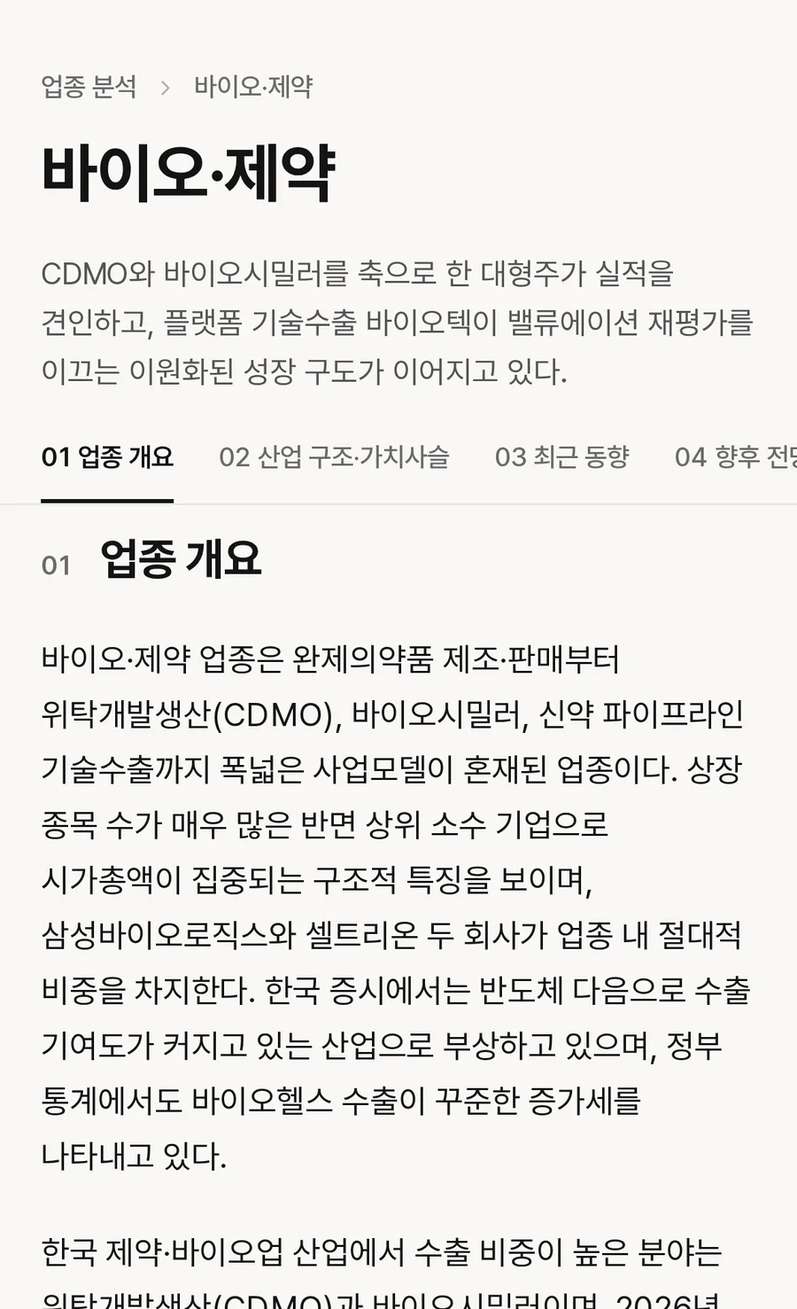
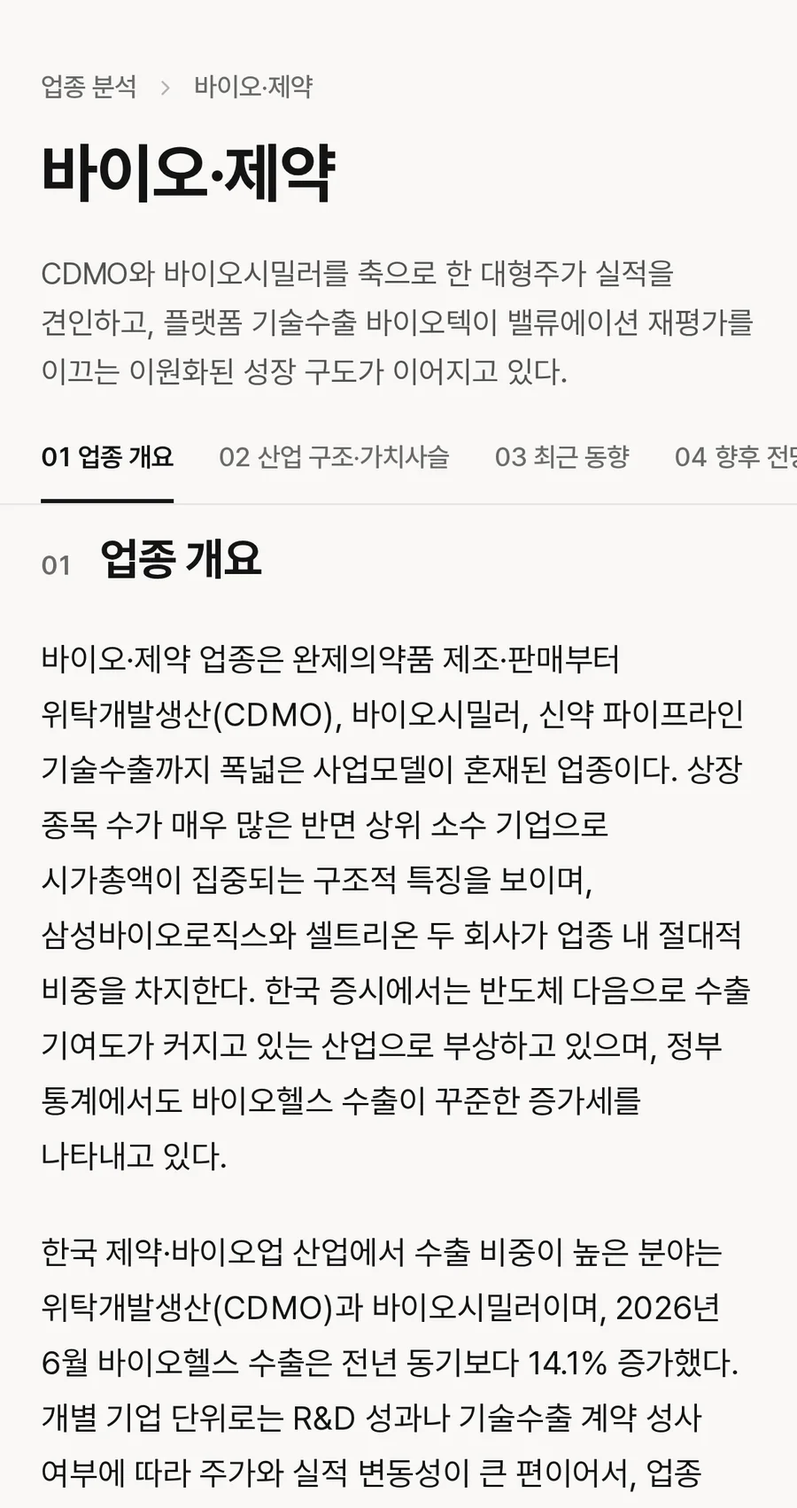
랜딩 휴대폰 그림 — 글줄이 잘린 채 끝나지 않게
휴대폰 폭에서 업종 절 왼쪽 그림이 글줄 한가운데서 끝나고, 그 아래 틀이
비어 있었다. 오른쪽 화면이 폭의 12%만큼 내려서고 두 틀의 아래 끝이 같아
왼쪽 틀이 그만큼 늘어나는데, 두 화면을 같은 길이로 찍어서다.

- 왼쪽 휴대폰 화면을 오른쪽보다 화면 폭의 25% 길게 찍어 틀을 꼭 채운다
  (900×1702, 리포트 절 · 업종 절 모두)
- 모든 그림이 글줄 사이에서 끝나게 한다 — 아래 끝에 걸치거나 6px 안으로
  붙은 줄은 빼고 바탕색으로 덮는다(landing_art.py 의 LAST_LINE)
- 휴대폰 화면은 다음 절 제목도 자르지 않고 덮어 틀 크기를 지킨다
- 그림 크기가 SHOT 과 다르면 랜딩 빌드가 멈춘다(webp_size)

Claude-Session: https://claude.ai/code/session_01V9w7AkGYKinAos3GPMJT9m

Changed region(s): [[0.0311, 0.0311, 1.0, 1.0], [0.84, 0.3426, 1.0, 0.3737], [0.6222, 0.3426, 0.7778, 0.3737]]

diff --git a/preview/concepts/landing/index.html b/preview/concepts/landing/index.html
@@ -1,4 +1,4 @@
-<!doctype html><html lang="ko"><head><meta charset="utf-8"><meta name="viewport" content="width=device-width,initial-scale=1,viewport-fit=cover"><meta name="robots" content="noindex,nofollow"><meta name="theme-color" content="#141414"><title>KOSAI — 국내 상장 2,682개 종목의 기업 분석 리포트</title><meta name="description" content="국내 상장 2,682개 종목의 기업 분석 리포트와 모닝브리핑, 업종 분석을 제공합니다."><meta property="og:title" content="KOSAI — 증권사가 다루지 않는 종목까지"><meta property="og:description" content="국내 상장 2,682개 종목의 기업 분석 리포트"><link rel="stylesheet" href="../../../fonts/pretendard-subset.css"><link rel="stylesheet" href="landing.css"><script>(function(){var t='light';try{t=localStorage.getItem('kos-theme')||'light'}catch(e){}var r=document.documentElement;r.setAttribute('data-theme',t);r.classList.add('band-top');if('IntersectionObserver' in window&&!matchMedia('(prefers-reduced-motion: reduce)').matches)r.classList.add('rv-on');document.querySelector('meta[name="theme-color"]').setAttribute('content',t==='dark'?'#1c1c1e':'#141414')})();</script></head><body><div id="kosEdgeTop" aria-hidden="true"></div><div id="kosEdgeBot" aria-hidden="true"></div><nav class="nav on-band" id="nav"><div class="nav-in"><a class="brand" href="#"><img class="lt" src="../../../assets/kosai-wordmark-black.png" alt="KOSAI"><img class="dk" src="../../../assets/kosai-wordmark-white.png" alt="KOSAI"></a><div class="links"><a href="#">홈</a><a href="#report">리포트</a><a href="#sectors">업종 분석</a><a href="#">관심종목</a><a href="#brief">모닝브리핑</a></div><div class="right"><a class="login" href="#">로그인</a><button class="ib" id="themeBtn" aria-label="테마 전환"><svg viewBox="0 0 24 24" id="themeIcon"><path d="M21 12.8A9 9 0 1 1 11.2 3a7 7 0 0 0 9.8 9.8z"/></svg></button><button class="ib menu" id="menuBtn" aria-label="메뉴" aria-expanded="false" aria-controls="mmenu"><svg class="ham" viewBox="0 0 24 24"><path d="M4 7h16M4 12h16M4 17h16"/></svg><svg class="x" viewBox="0 0 24 24"><path d="M6 6l12 12M18 6L6 18"/></svg></button></div></div></nav><div class="mmenu" id="mmenu"><div class="mm-links"><a href="#">홈</a><a href="#report">리포트</a><a href="#sectors">업종 분석</a><a href="#">관심종목</a><a href="#brief">모닝브리핑</a></div><div class="sep"></div><div class="mm-auth"><a href="#">로그인</a><a href="#">회원가입</a></div><div class="mm-foot"><a href="#">회사 소개</a><a href="#">문의하기</a><a href="#">피드백</a><a href="#">이용약관</a><a href="#">개인정보 처리방침</a></div></div><main><header class="hero dz" id="hero"><div class="hero-in w"><h1>증권사가 다루지 않는<br>종목까지</h1><p class="lede"><span class="s">국내 상장 <span class="num">2,682</span>개 종목의 기업 분석 리포트를 제공합니다.</span></p><form class="search" role="search" onsubmit="return false"><svg viewBox="0 0 24 24"><circle cx="11" cy="11" r="7"/><path d="M21 21l-3.5-3.5"/></svg><input placeholder="종목명 또는 종목코드" aria-label="종목 검색" autocomplete="off"><button class="btn btn-ink" type="button">리포트 찾기</button></form><div class="alt"><a class="more" href="#">전체 리포트 보기 <svg class="i" viewBox="0 0 24 24"><path d="M5 12h14M13 6l6 6-6 6"/></svg></a></div></div><div class="orb-box" aria-hidden="true"><canvas class="orb" id="orb"></canvas></div><script type="application/json" id="orbData">{"n":2682,"r":[22,56,85,116,120,137,169,174,247,261,272,273,278,288,293,297,369,399,417,537,579,586,629,636,694,721,722,727,732,735,740,794,796,811,821,875,890,907,912,923,969,1052,1055,1072,1108,1174,1192,1220,1275,1312,1317,1346,1350,1411,1419,1442,1527,1578,1585,1628,1672,1718,1724,1736,1745,1828,1866,1874,1899,1948,1956,1974,1977,1996,2001,2007,2102,2148,2173,2187,2195,2295,2319,2328,2331,2369,2404,2409,2421,2441,2534,2563,2565,2570,2577,2601,2616,2622]}</script></header><section class="sec w solo stat" id="gap"><h2 class="stat-h rv"><span class="h2">증권사 리포트가 없는<br class="m"> 국내 상장사</span> <span class="cnt stat-n">58.8%</span></h2><p class="sub rv"><span class="s">지난해 증권사 기업분석 보고서가 발간되지 않은 기업은 1,573개사입니다.</span> <span class="s">KOSAI는 해당 기업에 대해서도 분석 리포트를 제공합니다.</span></p><p class="src rv">자료: 한국IR협의회 기업리서치센터, 2025년 상장사 2,674개사 집계</p></section><section class="sec w" id="report"><div class="split"><div class="tx"><p class="eyebrow rv">리포트</p><h2 class="h2 rv">한 편에 담은<br>기업 분석</h2><p class="sub rv"><span class="s">사업 구조와 실적, 업황, 전망, 리스크를 차례로 정리합니다.</span> <span class="s">강세 요인과 약세 요인을 함께 제시해 어느 한쪽으로 치우치지 않습니다.</span></p></div><figure class="shot" role="img" aria-label="KOSAI 기업 분석 리포트의 실제 화면. 목차와 리포트 개요, 사업 구조, 실적 추이가 차례로 보입니다."><div class="scr desk"><img class="lt" src="img/report-desk-light.webp" width="1840" height="1413" alt="" loading="lazy" decoding="async"><img class="dk" src="img/report-desk-dark.webp" width="1840" height="1413" alt="" loading="lazy" decoding="async"></div><div class="scr m1"><img class="lt" src="img/report-m1-light.webp" width="900" height="1477" alt="" loading="lazy" decoding="async"><img class="dk" src="img/report-m1-dark.webp" width="900" height="1477" alt="" loading="lazy" decoding="async"></div><div class="scr m2"><img class="lt" src="img/report-m2-light.webp" width="900" height="1477" alt="" loading="lazy" decoding="async"><img class="dk" src="img/report-m2-dark.webp" width="900" height="1477" alt="" loading="lazy" decoding="async"></div></figure></div></section><section class="sec w solo"><h2 class="h2 rv">매수도 매도도<br>권하지 않습니다</h2><p class="sub rv"><span class="s">KOSAI는 자체 투자의견과 목표주가를 제시하지 않습니다.</span> <span class="s">투자 판단에 필요한 사실과 근거를 정리하는 데 집중합니다.</span></p></section><section class="sec w trust"><h2 class="h2 rv">리포트의<br>세 가지 원칙</h2><ul class="proof"><li class="rv"><h3>공시 원본 수치</h3><p><span class="s">실적 표와 차트의 수치는 금융감독원 전자공시(DART) 원본에서 가져오며, AI가 생성하지 않습니다.</span></p></li><li class="rv"><h3>출처 공개</h3><p><span class="s">분석의 근거가 된 자료를 리포트마다 출처로 공개합니다.</span> <span class="s">한 편당 평균 17.5건입니다.</span></p></li><li class="rv"><h3>발행 전 검수</h3><p><span class="s">투자 권유로 읽힐 수 있는 표현은 발행 전에 자동으로 검수해 수정합니다.</span></p></li></ul><a class="more rv" href="#">작성 방식 자세히 보기 <svg class="i" viewBox="0 0 24 24"><path d="M5 12h14M13 6l6 6-6 6"/></svg></a></section><section class="sec w" id="fresh"><div class="split rev"><div class="tx"><h2 class="h2 rv">공시와 함께<br>갱신되는 리포트</h2><p class="sub rv"><span class="s">분기보고서와 반기보고서, 사업보고서가 공시되면 리포트를 새로 작성합니다.</span> <span class="s">주가와 밸류에이션 지표는 거래일마다 반영합니다.</span></p></div><figure class="cyc" id="cyc" role="img" aria-label="2026년 한 해를 원으로 나타낸 그림입니다. 안쪽 선은 12월 결산 법인의 정기보고서 제출 기간입니다."><div class="cyc-box" id="cycBox"></div><figcaption class="cyc-lg"><span><i class="g-ar"></i>정기보고서 제출 기간<em>12월 결산 법인 기준</em></span></figcaption><script type="application/json" id="cycData">{"years":{"2026":{"y":2026,"n":365,"win":[["사업보고서",0,89,3,31],["1분기보고서",90,134,5,15],["반기보고서",181,225,8,14],["3분기보고서",273,319,11,16]]},"2027":{"y":2027,"n":365,"win":[["사업보고서",0,89,3,31],["1분기보고서",90,136,5,17],["반기보고서",181,228,8,17],["3분기보고서",273,318,11,15]]},"2028":{"y":2028,"n":366,"win":[["사업보고서",0,89,3,30],["1분기보고서",91,135,5,15],["반기보고서",182,226,8,14],["3분기보고서",274,318,11,14]]},"2029":{"y":2029,"n":365,"win":[["사업보고서",0,91,4,2],["1분기보고서",90,134,5,15],["반기보고서",181,225,8,14],["3분기보고서",273,317,11,14]]},"2030":{"y":2030,"n":365,"win":[["사업보고서",0,90,4,1],["1분기보고서",90,134,5,15],["반기보고서",181,225,8,14],["3분기보고서",273,317,11,14]]}},"t":{"label":"{y}년 한 해를 원으로 나타낸 그림입니다. 안쪽 선은 12월 결산 법인의 정기보고서 제출 기간입니다.","next":"{w} 제출 기한은 {m}월 {d}일입니다.","mon":"{m}월","due":"{m}월 {d}일까지","today":"오늘"}}</script></figure></div></section><section class="sec w stack" id="sectors"><p class="eyebrow rv">업종 분석</p><h2 class="h2 rv">30개 업종의<br>분석 리포트</h2><p class="sub rv"><span class="s">업종마다 산업 구조와 최근 동향, 향후 전망, 리스크 요인을 분석합니다.</span> <span class="s">개별 기업을 산업 전체의 맥락에서 살펴볼 수 있습니다.</span></p><a class="more rv" href="#">전체 업종 보기 <svg class="i" viewBox="0 0 24 24"><path d="M5 12h14M13 6l6 6-6 6"/></svg></a><figure class="shot full" role="img" aria-label="KOSAI 업종 분석의 실제 화면. 업종 요약과 목차, 업종 개요, 리스크 요인이 차례로 보입니다."><div class="scr desk"><img class="lt" src="img/sector-desk-light.webp" width="2112" height="1277" alt="" loading="lazy" decoding="async"><img class="dk" src="img/sector-desk-dark.webp" width="2112" height="1277" alt="" loading="lazy" decoding="async"></div><div class="scr m1"><img class="lt" src="img/sector-m1-light.webp" width="900" height="1477" alt="" loading="lazy" decoding="async"><img class="dk" src="img/sector-m1-dark.webp" width="900" height="1477" alt="" loading="lazy" decoding="async"></div><div class="scr m2"><img class="lt" src="img/sector-m2-light.webp" width="900" height="1477" alt="" loading="lazy" decoding="async"><img class="dk" src="img/sector-m2-dark.webp" width="900" height="1477" alt="" loading="lazy" decoding="async"></div></figure></section><section class="band dz" id="brief"><div class="w split"><div class="tx"><p class="eyebrow rv">모닝브리핑</p><h2 class="h2 rv">개장 전에 읽는<br>시장 브리핑</h2><p class="sub rv"><span class="s">전일 국내 증시와 간밤의 해외 시장, 주요 일정을 정리합니다.</span> <span class="s">발행 시각은 거래일 오전 7시 30분 전후입니다.</span></p><a class="more rv" href="#">제31호 읽기 <svg class="i" viewBox="0 0 24 24"><path d="M5 12h14M13 6l6 6-6 6"/></svg></a></div><figure class="slot" aria-label="사진 자리 — 개장 전 아침, 책상 위 휴대폰"><span class="st"><svg viewBox="0 0 24 24"><rect x="3.5" y="5" width="17" height="14" rx="2"/><path d="M3.5 16l5-5 4 4 3-3 5 5"/></svg>사진<span>1:1</span></span><figcaption>개장 전 아침, 책상 위 휴대폰</figcaption></figure></div></section><section class="end w"><h2 class="h2 rv">궁금한 종목의<br>리포트를 확인하세요</h2><div class="rv"><form class="search" role="search" onsubmit="return false"><svg viewBox="0 0 24 24"><circle cx="11" cy="11" r="7"/><path d="M21 21l-3.5-3.5"/></svg><input placeholder="종목명 또는 종목코드" aria-label="종목 검색" autocomplete="off"><button class="btn btn-ink" type="button">리포트 찾기</button></form></div></section></main><footer class="foot"><div class="w"><a class="brand" href="#"><img class="lt" src="../../../assets/kosai-wordmark-black.png" alt="KOSAI"><img class="dk" src="../../../assets/kosai-wordmark-white.png" alt="KOSAI"></a><div class="fgrid"><div class="fcol"><h4>서비스</h4><a href="#">홈</a><a href="#">리포트</a><a href="#">업종 분석</a><a href="#">관심종목</a><a href="#">모닝브리핑</a></div><div class="fcol"><h4>회사</h4><a href="#">회사 소개</a><a href="#">문의하기</a><a href="#">피드백</a></div><div class="fcol"><h4>정책</h4><a href="#">이용약관</a><a class="pp" href="#">개인정보 처리방침</a></div></div><div class="biz"><span>상호 코사이</span><span>대표 임범준</span><span>사업자등록번호 380-25-02019</span><span>주소 서울시 양천구 목동동로12길 50, 동성빌딩 4층 459호</span><span>이메일 hello@kosai.kr</span></div><div class="copy">© 2026 KOSAI</div></div></footer><script>(function(){var r=document.documentElement;if(!r.classList.contains('rv-on'))return;function bz(x){var lo=0,hi=1,t=x,u;for(var i=0;i<24;i++){t=(lo+hi)/2;u=1-t;if(3*u*u*t*.2+3*u*t*t*.2+t*t*t<x)lo=t;else hi=t}u=1-t;return 3*u*u*t*.7+3*u*t*t+t*t*t}function cnt(el,d){var s=el.textContent,m=s.match(/^(\d+)(?:\.(\d+))?(\D*)$/),tn=el.firstChild;if(!m||!tn||(document.fonts&&document.fonts.status!=='loaded'))return;var hd=el.parentNode,ip=m[1],fp=m[2]||'',to=parseFloat(ip+(fp?'.'+fp:'')),dp=fp.length,ch=s.split(''),h='',i,b,x=[],fs=parseFloat(getComputedStyle(el).fontSize),rg=document.createRange();for(i=0;i<ch.length;i++){rg.setStart(tn,i);rg.setEnd(tn,i+1);b=rg.getBoundingClientRect();x.push([b.left,b.width])}hd.setAttribute('aria-label',hd.textContent);el.setAttribute('aria-hidden','true');el.style.whiteSpace='nowrap';for(i=0;i<ch.length;i++)h+='<span>'+ch[i]+'</span>';el.innerHTML=h;var sp=el.children;for(i=0;i<sp.length;i++)sp[i].style.cssText='display:inline-block;text-align:center;width:'+((i<sp.length-1?x[i+1][0]-x[i][0]:x[i][1])/fs).toFixed(4)+'em';function show(v){var a=v.toFixed(dp).split('.'),n=ip.length,k;for(i=0;i<n;i++){k=a[0].length-n+i;sp[i].textContent=k>=0?a[0].charAt(k):''}for(i=0;i<dp;i++)sp[n+1+i].textContent=(a[1]||'').charAt(i)}show(0);var t0=null;function f(ts){if(t0===null)t0=ts+d*1000;var p=Math.max(0,Math.min(1,(ts-t0)/1000));if(p<1){show(to*bz(p));requestAnimationFrame(f)}else for(i=0;i<sp.length;i++)sp[i].textContent=ch[i]}requestAnimationFrame(f)}try{var io=new IntersectionObserver(function(es){var j=0;for(var k=0;k<es.length;k++){var e=es[k],t=e.target;if(e.isIntersecting){var d=Math.min(j++,5)*.08;t.style.setProperty('--d',d+'s');t.classList.add('in');io.unobserve(t);var c=t.querySelector('.cnt');if(c)cnt(c,d)}else if(e.boundingClientRect.top<0){t.classList.add('in');io.unobserve(t)}}},{rootMargin:'0px 0px -10% 0px'});var rv=document.querySelectorAll('.rv');for(var k=0;k<rv.length;k++)io.observe(rv[k])}catch(x){r.classList.remove('rv-on')}})();</script><script>(function(){
+<!doctype html><html lang="ko"><head><meta charset="utf-8"><meta name="viewport" content="width=device-width,initial-scale=1,viewport-fit=cover"><meta name="robots" content="noindex,nofollow"><meta name="theme-color" content="#141414"><title>KOSAI — 국내 상장 2,682개 종목의 기업 분석 리포트</title><meta name="description" content="국내 상장 2,682개 종목의 기업 분석 리포트와 모닝브리핑, 업종 분석을 제공합니다."><meta property="og:title" content="KOSAI — 증권사가 다루지 않는 종목까지"><meta property="og:description" content="국내 상장 2,682개 종목의 기업 분석 리포트"><link rel="stylesheet" href="../../../fonts/pretendard-subset.css"><link rel="stylesheet" href="landing.css"><script>(function(){var t='light';try{t=localStorage.getItem('kos-theme')||'light'}catch(e){}var r=document.documentElement;r.setAttribute('data-theme',t);r.classList.add('band-top');if('IntersectionObserver' in window&&!matchMedia('(prefers-reduced-motion: reduce)').matches)r.classList.add('rv-on');document.querySelector('meta[name="theme-color"]').setAttribute('content',t==='dark'?'#1c1c1e':'#141414')})();</script></head><body><div id="kosEdgeTop" aria-hidden="true"></div><div id="kosEdgeBot" aria-hidden="true"></div><nav class="nav on-band" id="nav"><div class="nav-in"><a class="brand" href="#"><img class="lt" src="../../../assets/kosai-wordmark-black.png" alt="KOSAI"><img class="dk" src="../../../assets/kosai-wordmark-white.png" alt="KOSAI"></a><div class="links"><a href="#">홈</a><a href="#report">리포트</a><a href="#sectors">업종 분석</a><a href="#">관심종목</a><a href="#brief">모닝브리핑</a></div><div class="right"><a class="login" href="#">로그인</a><button class="ib" id="themeBtn" aria-label="테마 전환"><svg viewBox="0 0 24 24" id="themeIcon"><path d="M21 12.8A9 9 0 1 1 11.2 3a7 7 0 0 0 9.8 9.8z"/></svg></button><button class="ib menu" id="menuBtn" aria-label="메뉴" aria-expanded="false" aria-controls="mmenu"><svg class="ham" viewBox="0 0 24 24"><path d="M4 7h16M4 12h16M4 17h16"/></svg><svg class="x" viewBox="0 0 24 24"><path d="M6 6l12 12M18 6L6 18"/></svg></button></div></div></nav><div class="mmenu" id="mmenu"><div class="mm-links"><a href="#">홈</a><a href="#report">리포트</a><a href="#sectors">업종 분석</a><a href="#">관심종목</a><a href="#brief">모닝브리핑</a></div><div class="sep"></div><div class="mm-auth"><a href="#">로그인</a><a href="#">회원가입</a></div><div class="mm-foot"><a href="#">회사 소개</a><a href="#">문의하기</a><a href="#">피드백</a><a href="#">이용약관</a><a href="#">개인정보 처리방침</a></div></div><main><header class="hero dz" id="hero"><div class="hero-in w"><h1>증권사가 다루지 않는<br>종목까지</h1><p class="lede"><span class="s">국내 상장 <span class="num">2,682</span>개 종목의 기업 분석 리포트를 제공합니다.</span></p><form class="search" role="search" onsubmit="return false"><svg viewBox="0 0 24 24"><circle cx="11" cy="11" r="7"/><path d="M21 21l-3.5-3.5"/></svg><input placeholder="종목명 또는 종목코드" aria-label="종목 검색" autocomplete="off"><button class="btn btn-ink" type="button">리포트 찾기</button></form><div class="alt"><a class="more" href="#">전체 리포트 보기 <svg class="i" viewBox="0 0 24 24"><path d="M5 12h14M13 6l6 6-6 6"/></svg></a></div></div><div class="orb-box" aria-hidden="true"><canvas class="orb" id="orb"></canvas></div><script type="application/json" id="orbData">{"n":2682,"r":[22,56,85,116,120,137,169,174,247,261,272,273,278,288,293,297,369,399,417,537,579,586,629,636,694,721,722,727,732,735,740,794,796,811,821,875,890,907,912,923,969,1052,1055,1072,1108,1174,1192,1220,1275,1312,1317,1346,1350,1411,1419,1442,1527,1578,1585,1628,1672,1718,1724,1736,1745,1828,1866,1874,1899,1948,1956,1974,1977,1996,2001,2007,2102,2148,2173,2187,2195,2295,2319,2328,2331,2369,2404,2409,2421,2441,2534,2563,2565,2570,2577,2601,2616,2622]}</script></header><section class="sec w solo stat" id="gap"><h2 class="stat-h rv"><span class="h2">증권사 리포트가 없는<br class="m"> 국내 상장사</span> <span class="cnt stat-n">58.8%</span></h2><p class="sub rv"><span class="s">지난해 증권사 기업분석 보고서가 발간되지 않은 기업은 1,573개사입니다.</span> <span class="s">KOSAI는 해당 기업에 대해서도 분석 리포트를 제공합니다.</span></p><p class="src rv">자료: 한국IR협의회 기업리서치센터, 2025년 상장사 2,674개사 집계</p></section><section class="sec w" id="report"><div class="split"><div class="tx"><p class="eyebrow rv">리포트</p><h2 class="h2 rv">한 편에 담은<br>기업 분석</h2><p class="sub rv"><span class="s">사업 구조와 실적, 업황, 전망, 리스크를 차례로 정리합니다.</span> <span class="s">강세 요인과 약세 요인을 함께 제시해 어느 한쪽으로 치우치지 않습니다.</span></p></div><figure class="shot" role="img" aria-label="KOSAI 기업 분석 리포트의 실제 화면. 목차와 리포트 개요, 사업 구조, 실적 추이가 차례로 보입니다."><div class="scr desk"><img class="lt" src="img/report-desk-light.webp" width="1840" height="1413" alt="" loading="lazy" decoding="async"><img class="dk" src="img/report-desk-dark.webp" width="1840" height="1413" alt="" loading="lazy" decoding="async"></div><div class="scr m1"><img class="lt" src="img/report-m1-light.webp" width="900" height="1702" alt="" loading="lazy" decoding="async"><img class="dk" src="img/report-m1-dark.webp" width="900" height="1702" alt="" loading="lazy" decoding="async"></div><div class="scr m2"><img class="lt" src="img/report-m2-light.webp" width="900" height="1477" alt="" loading="lazy" decoding="async"><img class="dk" src="img/report-m2-dark.webp" width="900" height="1477" alt="" loading="lazy" decoding="async"></div></figure></div></section><section class="sec w solo"><h2 class="h2 rv">매수도 매도도<br>권하지 않습니다</h2><p class="sub rv"><span class="s">KOSAI는 자체 투자의견과 목표주가를 제시하지 않습니다.</span> <span class="s">투자 판단에 필요한 사실과 근거를 정리하는 데 집중합니다.</span></p></section><section class="sec w trust"><h2 class="h2 rv">리포트의<br>세 가지 원칙</h2><ul class="proof"><li class="rv"><h3>공시 원본 수치</h3><p><span class="s">실적 표와 차트의 수치는 금융감독원 전자공시(DART) 원본에서 가져오며, AI가 생성하지 않습니다.</span></p></li><li class="rv"><h3>출처 공개</h3><p><span class="s">분석의 근거가 된 자료를 리포트마다 출처로 공개합니다.</span> <span class="s">한 편당 평균 17.5건입니다.</span></p></li><li class="rv"><h3>발행 전 검수</h3><p><span class="s">투자 권유로 읽힐 수 있는 표현은 발행 전에 자동으로 검수해 수정합니다.</span></p></li></ul><a class="more rv" href="#">작성 방식 자세히 보기 <svg class="i" viewBox="0 0 24 24"><path d="M5 12h14M13 6l6 6-6 6"/></svg></a></section><section class="sec w" id="fresh"><div class="split rev"><div class="tx"><h2 class="h2 rv">공시와 함께<br>갱신되는 리포트</h2><p class="sub rv"><span class="s">분기보고서와 반기보고서, 사업보고서가 공시되면 리포트를 새로 작성합니다.</span> <span class="s">주가와 밸류에이션 지표는 거래일마다 반영합니다.</span></p></div><figure class="cyc" id="cyc" role="img" aria-label="2026년 한 해를 원으로 나타낸 그림입니다. 안쪽 선은 12월 결산 법인의 정기보고서 제출 기간입니다."><div class="cyc-box" id="cycBox"></div><figcaption class="cyc-lg"><span><i class="g-ar"></i>정기보고서 제출 기간<em>12월 결산 법인 기준</em></span></figcaption><script type="application/json" id="cycData">{"years":{"2026":{"y":2026,"n":365,"win":[["사업보고서",0,89,3,31],["1분기보고서",90,134,5,15],["반기보고서",181,225,8,14],["3분기보고서",273,319,11,16]]},"2027":{"y":2027,"n":365,"win":[["사업보고서",0,89,3,31],["1분기보고서",90,136,5,17],["반기보고서",181,228,8,17],["3분기보고서",273,318,11,15]]},"2028":{"y":2028,"n":366,"win":[["사업보고서",0,89,3,30],["1분기보고서",91,135,5,15],["반기보고서",182,226,8,14],["3분기보고서",274,318,11,14]]},"2029":{"y":2029,"n":365,"win":[["사업보고서",0,91,4,2],["1분기보고서",90,134,5,15],["반기보고서",181,225,8,14],["3분기보고서",273,317,11,14]]},"2030":{"y":2030,"n":365,"win":[["사업보고서",0,90,4,1],["1분기보고서",90,134,5,15],["반기보고서",181,225,8,14],["3분기보고서",273,317,11,14]]}},"t":{"label":"{y}년 한 해를 원으로 나타낸 그림입니다. 안쪽 선은 12월 결산 법인의 정기보고서 제출 기간입니다.","next":"{w} 제출 기한은 {m}월 {d}일입니다.","mon":"{m}월","due":"{m}월 {d}일까지","today":"오늘"}}</script></figure></div></section><section class="sec w stack" id="sectors"><p class="eyebrow rv">업종 분석</p><h2 class="h2 rv">30개 업종의<br>분석 리포트</h2><p class="sub rv"><span class="s">업종마다 산업 구조와 최근 동향, 향후 전망, 리스크 요인을 분석합니다.</span> <span class="s">개별 기업을 산업 전체의 맥락에서 살펴볼 수 있습니다.</span></p><a class="more rv" href="#">전체 업종 보기 <svg class="i" viewBox="0 0 24 24"><path d="M5 12h14M13 6l6 6-6 6"/></svg></a><figure class="shot full" role="img" aria-label="KOSAI 업종 분석의 실제 화면. 업종 요약과 목차, 업종 개요, 리스크 요인이 차례로 보입니다."><div class="scr desk"><img class="lt" src="img/sector-desk-light.webp" width="2112" height="1277" alt="" loading="lazy" decoding="async"><img class="dk" src="img/sector-desk-dark.webp" width="2112" height="1277" alt="" loading="lazy" decoding="async"></div><div class="scr m1"><img class="lt" src="img/sector-m1-light.webp" width="900" height="1702" alt="" loading="lazy" decoding="async"><img class="dk" src="img/sector-m1-dark.webp" width="900" height="1702" alt="" loading="lazy" decoding="async"></div><div class="scr m2"><img class="lt" src="img/sector-m2-light.webp" width="900" height="1477" alt="" loading="lazy" decoding="async"><img class="dk" src="img/sector-m2-dark.webp" width="900" height="1477" alt="" loading="lazy" decoding="async"></div></figure></section><section class="band dz" id="brief"><div class="w split"><div class="tx"><p class="eyebrow rv">모닝브리핑</p><h2 class="h2 rv">개장 전에 읽는<br>시장 브리핑</h2><p class="sub rv"><span class="s">전일 국내 증시와 간밤의 해외 시장, 주요 일정을 정리합니다.</span> <span class="s">발행 시각은 거래일 오전 7시 30분 전후입니다.</span></p><a class="more rv" href="#">제31호 읽기 <svg class="i" viewBox="0 0 24 24"><path d="M5 12h14M13 6l6 6-6 6"/></svg></a></div><figure class="slot" aria-label="사진 자리 — 개장 전 아침, 책상 위 휴대폰"><span class="st"><svg viewBox="0 0 24 24"><rect x="3.5" y="5" width="17" height="14" rx="2"/><path d="M3.5 16l5-5 4 4 3-3 5 5"/></svg>사진<span>1:1</span></span><figcaption>개장 전 아침, 책상 위 휴대폰</figcaption></figure></div></section><section class="end w"><h2 class="h2 rv">궁금한 종목의<br>리포트를 확인하세요</h2><div class="rv"><form class="search" role="search" onsubmit="return false"><svg viewBox="0 0 24 24"><circle cx="11" cy="11" r="7"/><path d="M21 21l-3.5-3.5"/></svg><input placeholder="종목명 또는 종목코드" aria-label="종목 검색" autocomplete="off"><button class="btn btn-ink" type="button">리포트 찾기</button></form></div></section></main><footer class="foot"><div class="w"><a class="brand" href="#"><img class="lt" src="../../../assets/kosai-wordmark-black.png" alt="KOSAI"><img class="dk" src="../../../assets/kosai-wordmark-white.png" alt="KOSAI"></a><div class="fgrid"><div class="fcol"><h4>서비스</h4><a href="#">홈</a><a href="#">리포트</a><a href="#">업종 분석</a><a href="#">관심종목</a><a href="#">모닝브리핑</a></div><div class="fcol"><h4>회사</h4><a href="#">회사 소개</a><a href="#">문의하기</a><a href="#">피드백</a></div><div class="fcol"><h4>정책</h4><a href="#">이용약관</a><a class="pp" href="#">개인정보 처리방침</a></div></div><div class="biz"><span>상호 코사이</span><span>대표 임범준</span><span>사업자등록번호 380-25-02019</span><span>주소 서울시 양천구 목동동로12길 50, 동성빌딩 4층 459호</span><span>이메일 hello@kosai.kr</span></div><div class="copy">© 2026 KOSAI</div></div></footer><script>(function(){var r=document.documentElement;if(!r.classList.contains('rv-on'))return;function bz(x){var lo=0,hi=1,t=x,u;for(var i=0;i<24;i++){t=(lo+hi)/2;u=1-t;if(3*u*u*t*.2+3*u*t*t*.2+t*t*t<x)lo=t;else hi=t}u=1-t;return 3*u*u*t*.7+3*u*t*t+t*t*t}function cnt(el,d){var s=el.textContent,m=s.match(/^(\d+)(?:\.(\d+))?(\D*)$/),tn=el.firstChild;if(!m||!tn||(document.fonts&&document.fonts.status!=='loaded'))return;var hd=el.parentNode,ip=m[1],fp=m[2]||'',to=parseFloat(ip+(fp?'.'+fp:'')),dp=fp.length,ch=s.split(''),h='',i,b,x=[],fs=parseFloat(getComputedStyle(el).fontSize),rg=document.createRange();for(i=0;i<ch.length;i++){rg.setStart(tn,i);rg.setEnd(tn,i+1);b=rg.getBoundingClientRect();x.push([b.left,b.width])}hd.setAttribute('aria-label',hd.textContent);el.setAttribute('aria-hidden','true');el.style.whiteSpace='nowrap';for(i=0;i<ch.length;i++)h+='<span>'+ch[i]+'</span>';el.innerHTML=h;var sp=el.children;for(i=0;i<sp.length;i++)sp[i].style.cssText='display:inline-block;text-align:center;width:'+((i<sp.length-1?x[i+1][0]-x[i][0]:x[i][1])/fs).toFixed(4)+'em';function show(v){var a=v.toFixed(dp).split('.'),n=ip.length,k;for(i=0;i<n;i++){k=a[0].length-n+i;sp[i].textContent=k>=0?a[0].charAt(k):''}for(i=0;i<dp;i++)sp[n+1+i].textContent=(a[1]||'').charAt(i)}show(0);var t0=null;function f(ts){if(t0===null)t0=ts+d*1000;var p=Math.max(0,Math.min(1,(ts-t0)/1000));if(p<1){show(to*bz(p));requestAnimationFrame(f)}else for(i=0;i<sp.length;i++)sp[i].textContent=ch[i]}requestAnimationFrame(f)}try{var io=new IntersectionObserver(function(es){var j=0;for(var k=0;k<es.length;k++){var e=es[k],t=e.target;if(e.isIntersecting){var d=Math.min(j++,5)*.08;t.style.setProperty('--d',d+'s');t.classList.add('in');io.unobserve(t);var c=t.querySelector('.cnt');if(c)cnt(c,d)}else if(e.boundingClientRect.top<0){t.classList.add('in');io.unobserve(t)}}},{rootMargin:'0px 0px -10% 0px'});var rv=document.querySelectorAll('.rv');for(var k=0;k<rv.length;k++)io.observe(rv[k])}catch(x){r.classList.remove('rv-on')}})();</script><script>(function(){
 var fg=document.getElementById('cyc'),box=document.getElementById('cycBox'),el=document.getElementById('cycData');if(!fg||!box||!el)return;
 var A=JSON.parse(el.textContent),Y=A.years,T=A.t,ks=Object.keys(Y).sort(),D=null,ti=-1,day='';
 function fill(s,o){return s.replace(/\{(\w+)\}/g,function(m,k){return k in o?o[k]:m})}

diff --git a/scripts/concepts/landing_art.py b/scripts/concepts/landing_art.py
@@ -18,6 +18,10 @@
     분석 > 바이오·제약 · 업종 요약)와 목차 · 01 업종 개요가 보이는 데스크톱 화면 한 장, 한 열은 휴대폰 화면 두 장(01 업종 개요 ·
     05 리스크 요인). 머리 아래 수치 줄(시가총액 합계 · 시장 비중 · 종목 수 · 평균 등락률)과 기준 줄은 매일 바뀌는 값이라 가리고
     찍는다 — 리포트 절이 종목 머리를 덜어 낸 것과 같은 이치. 업종 분석 글(data/sectors.js)이 새로 쓰이면 다시 찍는다.
+  · 그림은 글줄 한가운데서 끝나지 않는다(사장 2026-10-01 "모바일에서 업종 절 왼쪽 이미지 아래 보면 글이 잘려 있어") — 아래 끝에 걸친
+    줄은 통째로 빼고 그 아래는 바탕색으로 덮는다(LAST_LINE). 휴대폰 화면은 틀에 꼭 맞는 크기라 끊을 자리(다음 절)도 자르지 않고 덮는다.
+    왼쪽 휴대폰 화면은 오른쪽보다 화면 폭의 25%만큼 길게 찍는다 — 랜딩에서 오른쪽 화면이 그만큼 내려서고 두 틀의 아래 끝이 같아서,
+    같은 길이로 찍었을 때는 왼쪽 틀 아래가 비고 그 위에서 글줄이 잘려 보였다.
   · Playwright(크로미움)가 있어야 돈다. 랜딩 빌드(landing.py)는 그림 파일만 쓴다.
 """
 import functools
@@ -39,21 +43,34 @@ TK = "066130"
 SECTOR = "바이오·제약"
 OUT = os.path.join(ROOT, "preview", "concepts", "landing", "img")
 NAV = 60   # 머리 줄 높이 — 찍은 뒤 덜어 낸다
+M1 = 700 + 390 * .25   # 왼쪽 휴대폰 화면의 아래 끝 — 오른쪽(700)보다 화면 폭의 25% 길다. 랜딩의 .m2{margin-top:12%} ÷ 화면 폭 48%
 # 이름: (화면 폭, 높이, 배율, 머리 아래 올 절(None 이면 맨 위 그대로), 그 절의 화면 위 거리, 자를 범위(화면 좌표 x0 · y0 · x1 · y1),
-#        저장 폭, 켜져 있어야 할 목차, 아래를 끊을 자리(선택자와 그 위쪽 여유 — 자를 범위의 y1 보다 위면 거기서 끊는다, None 이면 y1 그대로))
+#        저장 폭, 켜져 있어야 할 목차, 아래를 끊을 자리(선택자와 그 위쪽 여유 — 자를 범위의 y1 보다 위면 거기서 끊는다, None 이면 y1 그대로.
+#        데스크톱 화면은 거기서 자르고, 휴대폰 화면은 크기를 지키려고 그 아래를 바탕색으로 덮는다))
 SHOTS = {
     "desk": (1280, 1000, 2, "#s01", 92, (56, NAV, 1280, 1000), 1840, "01", None),
-    "m1": (390, 844, 3, "#s01", 112, (0, NAV, 390, 700), 900, "01", None),
-    "m2": (390, 844, 3, "#s03", 112, (0, NAV, 390, 700), 900, "03", None),
+    "m1": (390, 844, 3, "#s01", 112, (0, NAV, 390, M1), 900, "01", ("#s02", 8)),
+    "m2": (390, 844, 3, "#s03", 112, (0, NAV, 390, 700), 900, "03", ("#s04", 8)),
 }
 # 업종 화면 — 데스크톱은 본문 폭(1056px)에 16px 씩 여유를 둔 범위를 2112px(2배)로 담는다. 아래는 다음 절(02) 제목 8px 위, 01 업종 개요가
 # 끝난 여백에서 끊는다 — 제목 윗부분이 그림 끝에 흐리게 비쳤다(사장 2026-10-01 "글씨가 살짝 보이는데 저거 거슬리네")
 SECTOR_SHOTS = {
     "desk": (1280, 900, 2, None, 0, (96, 84, 1184, 760), 2112, "01", ("#s02", 8)),
-    "m1": (390, 844, 3, None, 0, (0, NAV, 390, 700), 900, "01", None),
-    "m2": (390, 844, 3, "#s05", 112, (0, NAV, 390, 700), 900, "05", None),
+    "m1": (390, 844, 3, None, 0, (0, NAV, 390, M1), 900, "01", ("#s02", 8)),
+    "m2": (390, 844, 3, "#s05", 112, (0, NAV, 390, 700), 900, "05", ("#s06", 8)),
 }
 HIDE = ".stats,.stats-note{display:none!important}"   # 업종 화면의 매일 바뀌는 수치 줄
+
+
+# 끊는 선(y)에 글줄이 걸쳐 있으면 그 줄 위로 올린다 — 올린 자리에 또 걸치면 거듭. 그 위 줄이 선에 6px 안으로 붙어 있어도 뺀다(가장자리에
+# 붙은 줄은 잘린 것처럼 보인다 · 6px 은 본문 줄 사이 틈보다 작아 한 줄만 빠진다). 글줄은 글자 칸(Range 의 줄 상자)으로 잰다
+LAST_LINE = """([x0,x1,y])=>{const rows=[];const tw=document.createTreeWalker(document.body,NodeFilter.SHOW_TEXT);
+  for(let n;(n=tw.nextNode());){if(!n.textContent.trim())continue;const r=document.createRange();r.selectNodeContents(n);
+    for(const b of r.getClientRects())if(b.width&&b.height&&b.right>x0&&b.left<x1)rows.push([b.top,b.bottom])}
+  for(const t of document.querySelectorAll('svg text')){const b=t.getBoundingClientRect();if(b.width&&b.right>x0&&b.left<x1)rows.push([b.top,b.bottom])}
+  const up=()=>{for(let moved=true;moved;){moved=false;for(const [t,b] of rows)if(t<y&&b>y){y=t;moved=true}}};
+  up();const near=rows.filter(([t,b])=>b<=y&&b>y-6);if(near.length){y=Math.min(...near.map(r=>r[0]));up()}
+  return y}"""
 
 
 class Quiet(SimpleHTTPRequestHandler):
@@ -63,7 +80,7 @@ class Quiet(SimpleHTTPRequestHandler):
 
 def take(br, url, shots, prefix, route=None, css=None):
     """shots 대로 라이트 · 다크를 찍어 prefix-{이름}-{테마}.webp 로 저장한다. 목차 표시가 맞지 않으면 멈춘다"""
-    from PIL import Image
+    from PIL import Image, ImageDraw
     for name, (w, h, dpr, sel, off, box, out_w, want, cut) in shots.items():
         for theme in ("light", "dark"):
             phone = w < 500
@@ -86,14 +103,24 @@ def take(br, url, shots, prefix, route=None, css=None):
                 sys.exit(f"{prefix} {name} {theme}: 목차 표시가 {want} 가 아니다 — {on}")
             im = Image.open(io.BytesIO(pg.screenshot())).convert("RGB")
             x0, y0, x1, y1 = box
+            stop = y1
             if cut:
-                y1 = min(y1, round(pg.evaluate("s=>document.querySelector(s).getBoundingClientRect().top", cut[0])) - cut[1])
+                stop = min(y1, round(pg.evaluate("s=>{const e=document.querySelector(s);return e?e.getBoundingClientRect().top:1e9}",
+                                                 cut[0])) - cut[1])
+                if not phone:
+                    y1 = stop
+            stop = pg.evaluate(LAST_LINE, [x0, x1, stop])   # 아래 끝에 걸친 글줄은 통째로 뺀다
             ctx.close()
             im = im.crop((x0 * dpr, y0 * dpr, x1 * dpr, y1 * dpr))
+            fy = round((stop - y0) * dpr)
+            if fy < im.height:   # 뺀 줄부터 아래를 바탕색(그 위 한 줄에서 가장 많은 색)으로 덮는다 — 그림 크기는 그대로
+                bg = max(im.crop((0, fy - 1, im.width, fy)).getcolors(im.width))[1]
+                ImageDraw.Draw(im).rectangle((0, fy, im.width, im.height), fill=bg)
             im = im.resize((out_w, round(im.height * out_w / im.width)), Image.LANCZOS)
             path = os.path.join(OUT, f"{prefix}-{name}-{theme}.webp")
             im.save(path, "WEBP", quality=84, method=6)
-            print(f"{os.path.relpath(path, ROOT)} {im.size[0]}×{im.size[1]} {os.path.getsize(path) // 1024}KB")
+            print(f"{os.path.relpath(path, ROOT)} {im.size[0]}×{im.size[1]} {os.path.getsize(path) // 1024}KB"
+                  + (f" · 아래 {round(y1 - stop)}px 덮음" if fy < round((y1 - y0) * dpr) else ""))
 
 
 def report(br, base):

diff --git a/CLAUDE.md b/CLAUDE.md
@@ -522,6 +522,11 @@ PR 하나, 스테이징·실사이트 같이. 조사 원자료는 `docs/design/r
     선과 옅은 그림자뿐이고 아래는 바탕으로 풀린다(`landing.py` 의 `shot()` · `.shot`). 데스크톱에 휴대폰 화면을 두지 말 것 — 컴퓨터로 온
     방문자가 실제로 보게 될 화면과 다르고 목차가 보이지 않는다. 리포트가 새로 쓰이거나 리포트 화면 디자인이 바뀌면 다시 찍는다(찍기 전에
     검사 둘을 돌려 걸리면 멈춘다). 오른쪽 끝까지 이어지는 화면의 가로 넘침은 `main{overflow-x:clip}` 이 막는다. 그림이라 움직이지 않는다.
+    **그림은 글줄 한가운데서 끝나지 않는다**(사장 휴대폰 2026-10-01 "업종 절 왼쪽 이미지 아래 보면 글이 잘려 있어") — 아래 끝에 걸치거나 6px 안으로
+    붙은 줄은 통째로 빼고 그 아래를 바탕색으로 덮는다(`landing_art.py` 의 `LAST_LINE` · 리포트 절 · 업종 절 그림 모두). 휴대폰 화면 두 장은 오른쪽이
+    폭의 12%만큼 내려서고 두 틀의 아래 끝이 같다 — 그래서 **왼쪽 화면은 오른쪽보다 화면 폭의 25% 길게** 찍어 틀을 꼭 채운다(900×1702 · 오른쪽
+    900×1477, `SHOT`). 같은 길이로 찍었을 때 왼쪽 틀 아래 42px 이 비었고 그 위에서 글줄이 반쯤 잘린 채 보였다. 휴대폰 화면의 다음 절 제목도
+    자르지 않고 덮는다(틀 크기를 지키려고). 그림 크기가 `SHOT` 과 다르면 랜딩 빌드가 멈춘다.
   · **갱신 절 그림 — 1년 공시 시계**(2026-10-01 사장: 1안 → "살짝 복잡해 보여서 약간 단순화" → 달 이름 '1, 4, 7, 10월' 권고 승인 → "이대로 미리보기 사이트에
     적용해줘" → "거래일 저거는 빼면 안돼? 필요한 정보도 아닌데"). 한 해를 원 하나로 — 바깥 원은 한 해의 길(같은 간격의 점, 오늘까지 진하게), 안쪽 선이
     12월 결산 법인의 정기보고서 제출 기간(지난 기간은 옅게), 다가오는 기한 하나만 날짜('11월 16일까지'), 가운데는 해. 범례는 제출 기간 하나.
